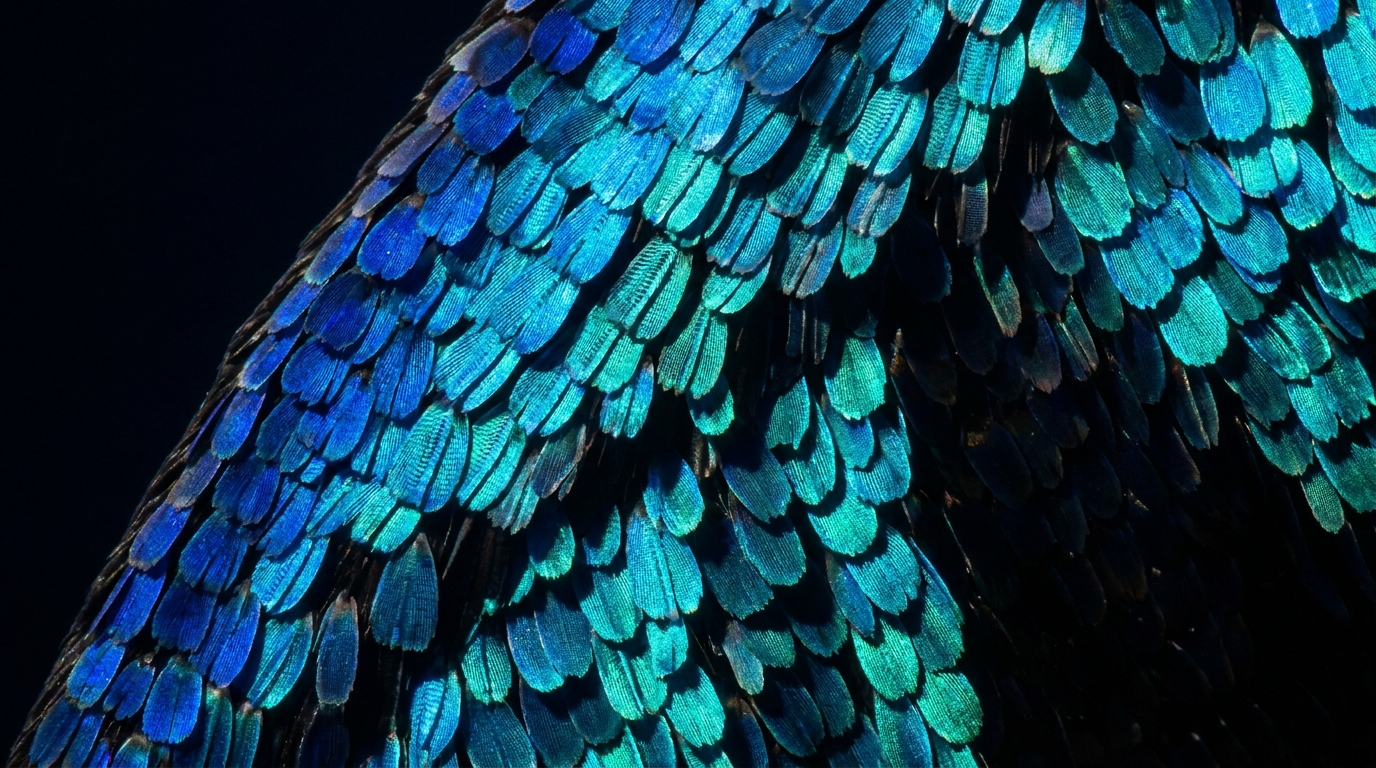
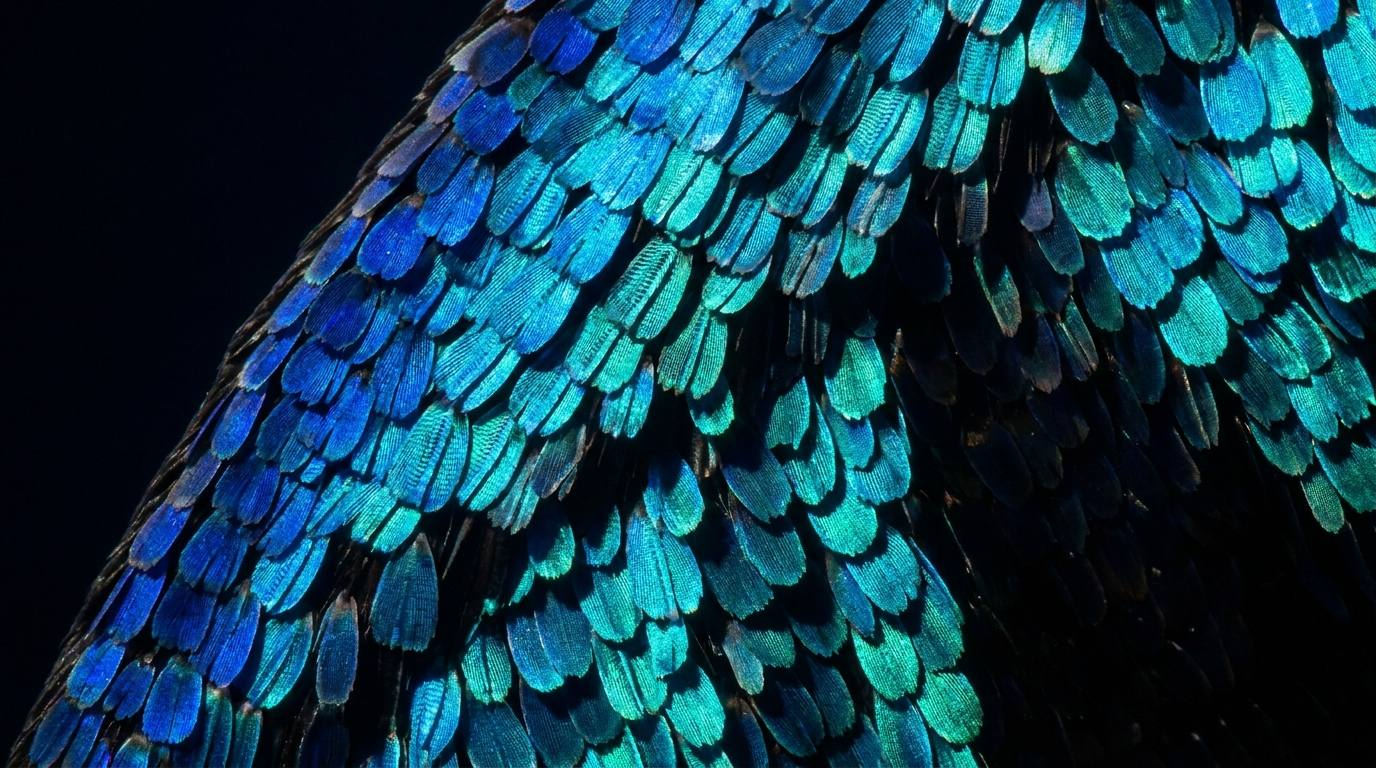
Harden + slim the bio-inspired labs (review fixes)
Two defects from the structural review of the just-shipped labs:
- No error boundary: the 10 labs rendered bare, so a crash inside any lab
  (WebGL / model-viewer / iframe / math edge case) escalated to the app-root
  boundary and blanked the whole reader. Wrap each lab in BlockErrorBoundary
  + Suspense (matches the pattern every other interactive block already uses).
- Oversized assets + eager import: the labs were static-imported into the
  ReadingPane chunk that all 256 sections load, and public/sim-art jpgs were
  1.2-4.9 MB full-bleed banners. Lazy-load the 10 labs (now per-lab chunks,
  out of the reader's critical path) and recompress the banners
  (serration.jpg 4.87MB->34KB; sim-art jpgs 16.0MB -> 0.68MB total, no visible
  quality loss — verified in-renderer).

Tests: lab assertions switched getBy->findBy (labs mount async under Suspense
now); setupTests stubs canvas/WebGL getContext so jsdom doesn't emit
"not implemented" / "WebGL context" noise on lab mount. Suite 154/154, clean.

Claude-Session: https://claude.ai/code/session_01PUFspPLVabBchpRfTmfUVt

diff --git a/frontend/src/components/ReadingPane.test.jsx b/frontend/src/components/ReadingPane.test.jsx
@@ -202,7 +202,9 @@ describe('ReadingPane embedded labs', () => {
         recentSection: null,
     }
 
-    it('embeds the GeckoGrip Lab on the dry-adhesion section (bio-inspired/04/01)', () => {
+    // The embedded labs are lazy() now (code-split), so they mount asynchronously
+    // behind Suspense — use findBy* (which waits) instead of the synchronous getBy*.
+    it('embeds the GeckoGrip Lab on the dry-adhesion section (bio-inspired/04/01)', async () => {
         render(
             <ReadingPane
                 {...baseProps}
@@ -213,51 +215,51 @@ describe('ReadingPane embedded labs', () => {
                 }}
             />,
         )
-        const frame = screen.getByTitle(/GeckoGrip Lab/i)
+        const frame = await screen.findByTitle(/GeckoGrip Lab/i)
         expect(frame).toBeInTheDocument()
         expect(frame.getAttribute('src')).toContain('geckogrip-lab.pages.dev')
     })
 
-    it('embeds the Nacre Lab on bio-inspired/01/02', () => {
+    it('embeds the Nacre Lab on bio-inspired/01/02', async () => {
         render(
             <ReadingPane
                 {...baseProps}
                 sectionData={{ meta: { course: 'bio-inspired', chapter: '01', section: '02', title: 'Hierarchical Structures' }, content: '# x', practice: [] }}
             />,
         )
-        const frame = screen.getByTitle(/Nacre Lab/i)
+        const frame = await screen.findByTitle(/Nacre Lab/i)
         expect(frame.getAttribute('src')).toContain('nacre-lab.pages.dev')
     })
 
-    it('embeds the Riblet Lab on bio-inspired/02/01', () => {
+    it('embeds the Riblet Lab on bio-inspired/02/01', async () => {
         render(
             <ReadingPane
                 {...baseProps}
                 sectionData={{ meta: { course: 'bio-inspired', chapter: '02', section: '01', title: 'Fluid Dynamics' }, content: '# x', practice: [] }}
             />,
         )
-        const frame = screen.getByTitle(/Riblet Lab/i)
+        const frame = await screen.findByTitle(/Riblet Lab/i)
         expect(frame.getAttribute('src')).toContain('riblet-lab.pages.dev')
     })
 
-    it('embeds the serration optimizer on bio-inspired/03/01', () => {
+    it('embeds the serration optimizer on bio-inspired/03/01', async () => {
         render(
             <ReadingPane
                 {...baseProps}
                 sectionData={{ meta: { course: 'bio-inspired', chapter: '03', section: '01', title: 'Aeroacoustics' }, content: '# x', practice: [] }}
             />,
         )
-        expect(screen.getByText(/Quiet-Blade Serration Optimizer/i)).toBeInTheDocument()
+        expect(await screen.findByText(/Quiet-Blade Serration Optimizer/i)).toBeInTheDocument()
     })
 
-    it('embeds the stack-effect designer on bio-inspired/06/01', () => {
+    it('embeds the stack-effect designer on bio-inspired/06/01', async () => {
         render(
             <ReadingPane
                 {...baseProps}
                 sectionData={{ meta: { course: 'bio-inspired', chapter: '06', section: '01', title: 'Thermal Regulation' }, content: '# x', practice: [] }}
             />,
         )
-        expect(screen.getByText(/Stack-Effect Ventilation Designer/i)).toBeInTheDocument()
+        expect(await screen.findByText(/Stack-Effect Ventilation Designer/i)).toBeInTheDocument()
     })
 
     it.each([
@@ -266,17 +268,17 @@ describe('ReadingPane embedded labs', () => {
         ['05', '01', /Structural-Color Multilayer Designer/i],
         ['07', '01', /Self-Healing Capsule Designer/i],
         ['08', '01', /Swarm Flocking Lab/i],
-    ])('embeds a sim on bio-inspired/%s/%s', (chapter, section, re) => {
+    ])('embeds a sim on bio-inspired/%s/%s', async (chapter, section, re) => {
         render(
             <ReadingPane
                 {...baseProps}
                 sectionData={{ meta: { course: 'bio-inspired', chapter, section, title: 'Section' }, content: '# x', practice: [] }}
             />,
         )
-        expect(screen.getByText(re)).toBeInTheDocument()
+        expect(await screen.findByText(re)).toBeInTheDocument()
     })
 
-    it('fires research telemetry (sim_open) when a sim mounts', () => {
+    it('fires research telemetry (sim_open) when a sim mounts', async () => {
         logEvent.mockClear()
         render(
             <ReadingPane
@@ -284,6 +286,8 @@ describe('ReadingPane embedded labs', () => {
                 sectionData={{ meta: { course: 'bio-inspired', chapter: '06', section: '01', title: 'Thermal' }, content: '# x', practice: [] }}
             />,
         )
+        // Lazy lab — wait for it to mount before asserting its mount telemetry.
+        await screen.findByText(/Stack-Effect Ventilation Designer/i)
         const opened = logEvent.mock.calls.some(
             (c) => c[0] === 'sim_open' && c[3] === 'bio-inspired/06/01',
         )

diff --git a/frontend/src/components/ReadingPane.jsx b/frontend/src/components/ReadingPane.jsx
@@ -3,16 +3,21 @@ import { CheckCircle2, ChevronDown, ListChecks, NotebookPen } from 'lucide-react
 import { logInteraction } from '../lib/loggingService'
 import { EXIT_TICKET_MIN_CHARS, getExitTicketStorageKey, readExitTicket, writeExitTicket } from '../lib/exitTickets'
 import PeerPulse from './PeerPulse'
-import GeckoGripLab from './GeckoGripLab'
-import NacreLab from './NacreLab'
-import RibletLab from './RibletLab'
-import SerrationOptimizer from './SerrationOptimizer'
-import StackEffectDesigner from './StackEffectDesigner'
-import RelativeDensityExplorer from './RelativeDensityExplorer'
-import PeelAsymmetryExplorer from './PeelAsymmetryExplorer'
-import BraggColorDesigner from './BraggColorDesigner'
-import CapsuleHealingExplorer from './CapsuleHealingExplorer'
-import SwarmFlockingLab from './SwarmFlockingLab'
+import BlockErrorBoundary from './BlockErrorBoundary'
+
+// Embedded labs are lazy-loaded so their code (and the model-viewer runtime they
+// pull) stays out of the ReadingPane chunk that every one of the 256 sections
+// loads — only the ~10 bio-inspired sections that actually use a lab pay for it.
+const GeckoGripLab = lazy(() => import('./GeckoGripLab'))
+const NacreLab = lazy(() => import('./NacreLab'))
+const RibletLab = lazy(() => import('./RibletLab'))
+const SerrationOptimizer = lazy(() => import('./SerrationOptimizer'))
+const StackEffectDesigner = lazy(() => import('./StackEffectDesigner'))
+const RelativeDensityExplorer = lazy(() => import('./RelativeDensityExplorer'))
+const PeelAsymmetryExplorer = lazy(() => import('./PeelAsymmetryExplorer'))
+const BraggColorDesigner = lazy(() => import('./BraggColorDesigner'))
+const CapsuleHealingExplorer = lazy(() => import('./CapsuleHealingExplorer'))
+const SwarmFlockingLab = lazy(() => import('./SwarmFlockingLab'))
 
 // Sections that embed a dedicated interactive lab below the reading narrative.
 const EMBEDDED_LABS = {
@@ -372,7 +377,16 @@ function ReadingPane({
 
             {EMBEDDED_LABS[sectionId] && (() => {
                 const EmbeddedLab = EMBEDDED_LABS[sectionId]
-                return <EmbeddedLab />
+                // Isolate the lab: a crash inside it (WebGL/model-viewer/iframe/math
+                // edge case) must degrade to a block-level fallback, not escalate to
+                // the app-root boundary and blank the whole reader.
+                return (
+                    <BlockErrorBoundary>
+                        <Suspense fallback={null}>
+                            <EmbeddedLab />
+                        </Suspense>
+                    </BlockErrorBoundary>
+                )
             })()}
 
             {peerPulse && (

diff --git a/frontend/src/test/setupTests.js b/frontend/src/test/setupTests.js
@@ -1,1 +1,41 @@
 import '@testing-library/jest-dom/vitest'
+
+// jsdom implements no canvas/WebGL. The bio-inspired labs mount THREE.js /
+// <model-viewer> / 2D-canvas visuals whose initialization throws in jsdom
+// ("getContext not implemented", "Error creating WebGL context",
+// model-viewer's renderer.xr.isPresenting on a null renderer). These are
+// environment limitations, not product defects — the labs render in real
+// browsers (verified live). Stub getContext + swallow the known WebGL-in-jsdom
+// async noise so the lab tests run clean without masking real failures.
+if (typeof HTMLCanvasElement !== 'undefined') {
+    const noop = () => {}
+    const ctx2d = new Proxy({}, { get: () => noop })
+    const ctxGL = new Proxy(
+        {},
+        {
+            get(_t, prop) {
+                if (prop === 'getExtension') return () => null
+                if (prop === 'getParameter') return () => 0
+                if (prop === 'getShaderPrecisionFormat') return () => ({ rangeMin: 1, rangeMax: 1, precision: 1 })
+                if (prop === 'canvas') return document.createElement('canvas')
+                return noop
+            },
+        },
+    )
+    HTMLCanvasElement.prototype.getContext = function getContext(type) {
+        if (type === '2d') return ctx2d
+        if (typeof type === 'string' && type.includes('webgl')) return ctxGL
+        return null
+    }
+}
+
+// The lab animation loops (THREE / model-viewer) schedule RAF callbacks that can
+// fire after a test unmounts and touch a null renderer in jsdom. Swallow ONLY
+// those known WebGL/XR async messages; anything else propagates as before.
+if (typeof process !== 'undefined' && process.on) {
+    process.on('unhandledRejection', (reason) => {
+        const msg = String(reason && reason.message ? reason.message : reason)
+        if (/isPresenting|WebGL|getContext|renderer/i.test(msg)) return
+        throw reason
+    })
+}
